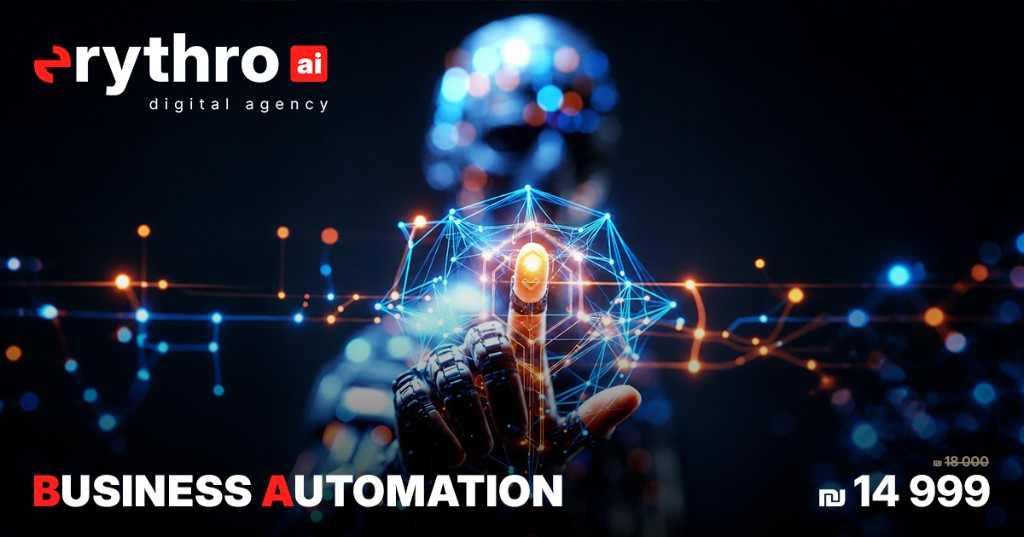
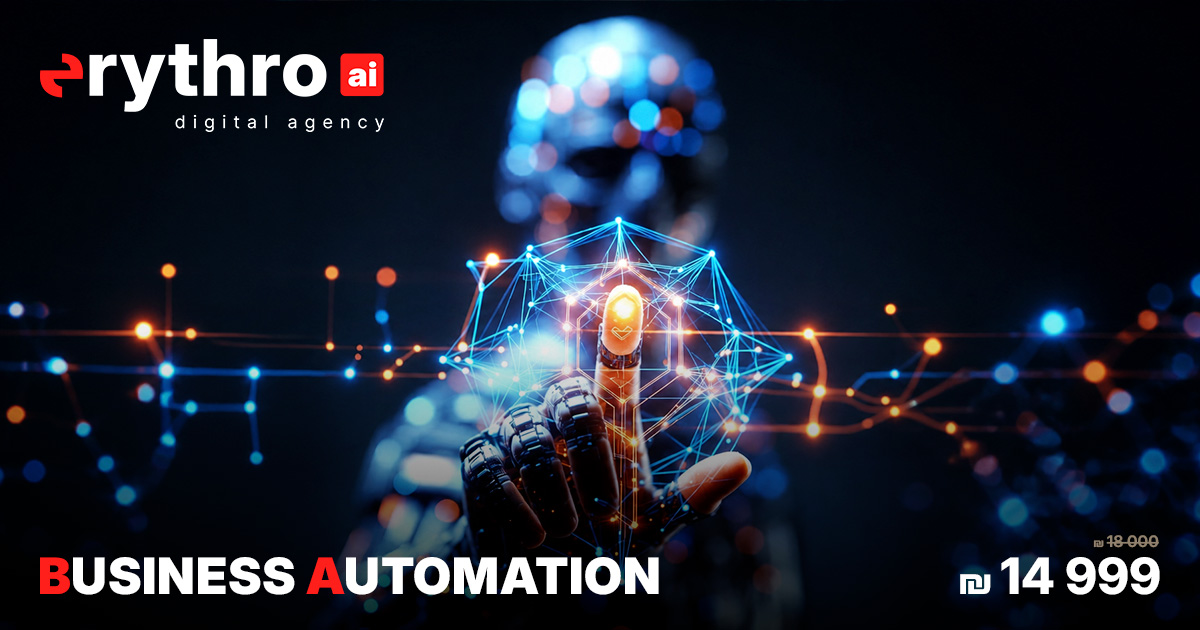
fix(seo): replace Business Automation OG image with the 1200x630 original

diff --git a/src/lib/ogImages.ts b/src/lib/ogImages.ts
@@ -15,7 +15,7 @@ export const OG_IMAGE_HEIGHT = 630
 /** Per-plan 1200×630 cards on R2 (same public host as homepage Og.jpg). */
 const PLAN_OG_IMAGES: Record<string, string> = {
   'business-automation':
-    'https://pub-bca1ac764c56451890e973c90029a977.r2.dev/og/business-automation.jpg',
+    'https://pub-bca1ac764c56451890e973c90029a977.r2.dev/og/business-automation-1200.jpg',
 }
 
 export function ogImageForPlan(slug: string, siteOgImage?: string): string {
